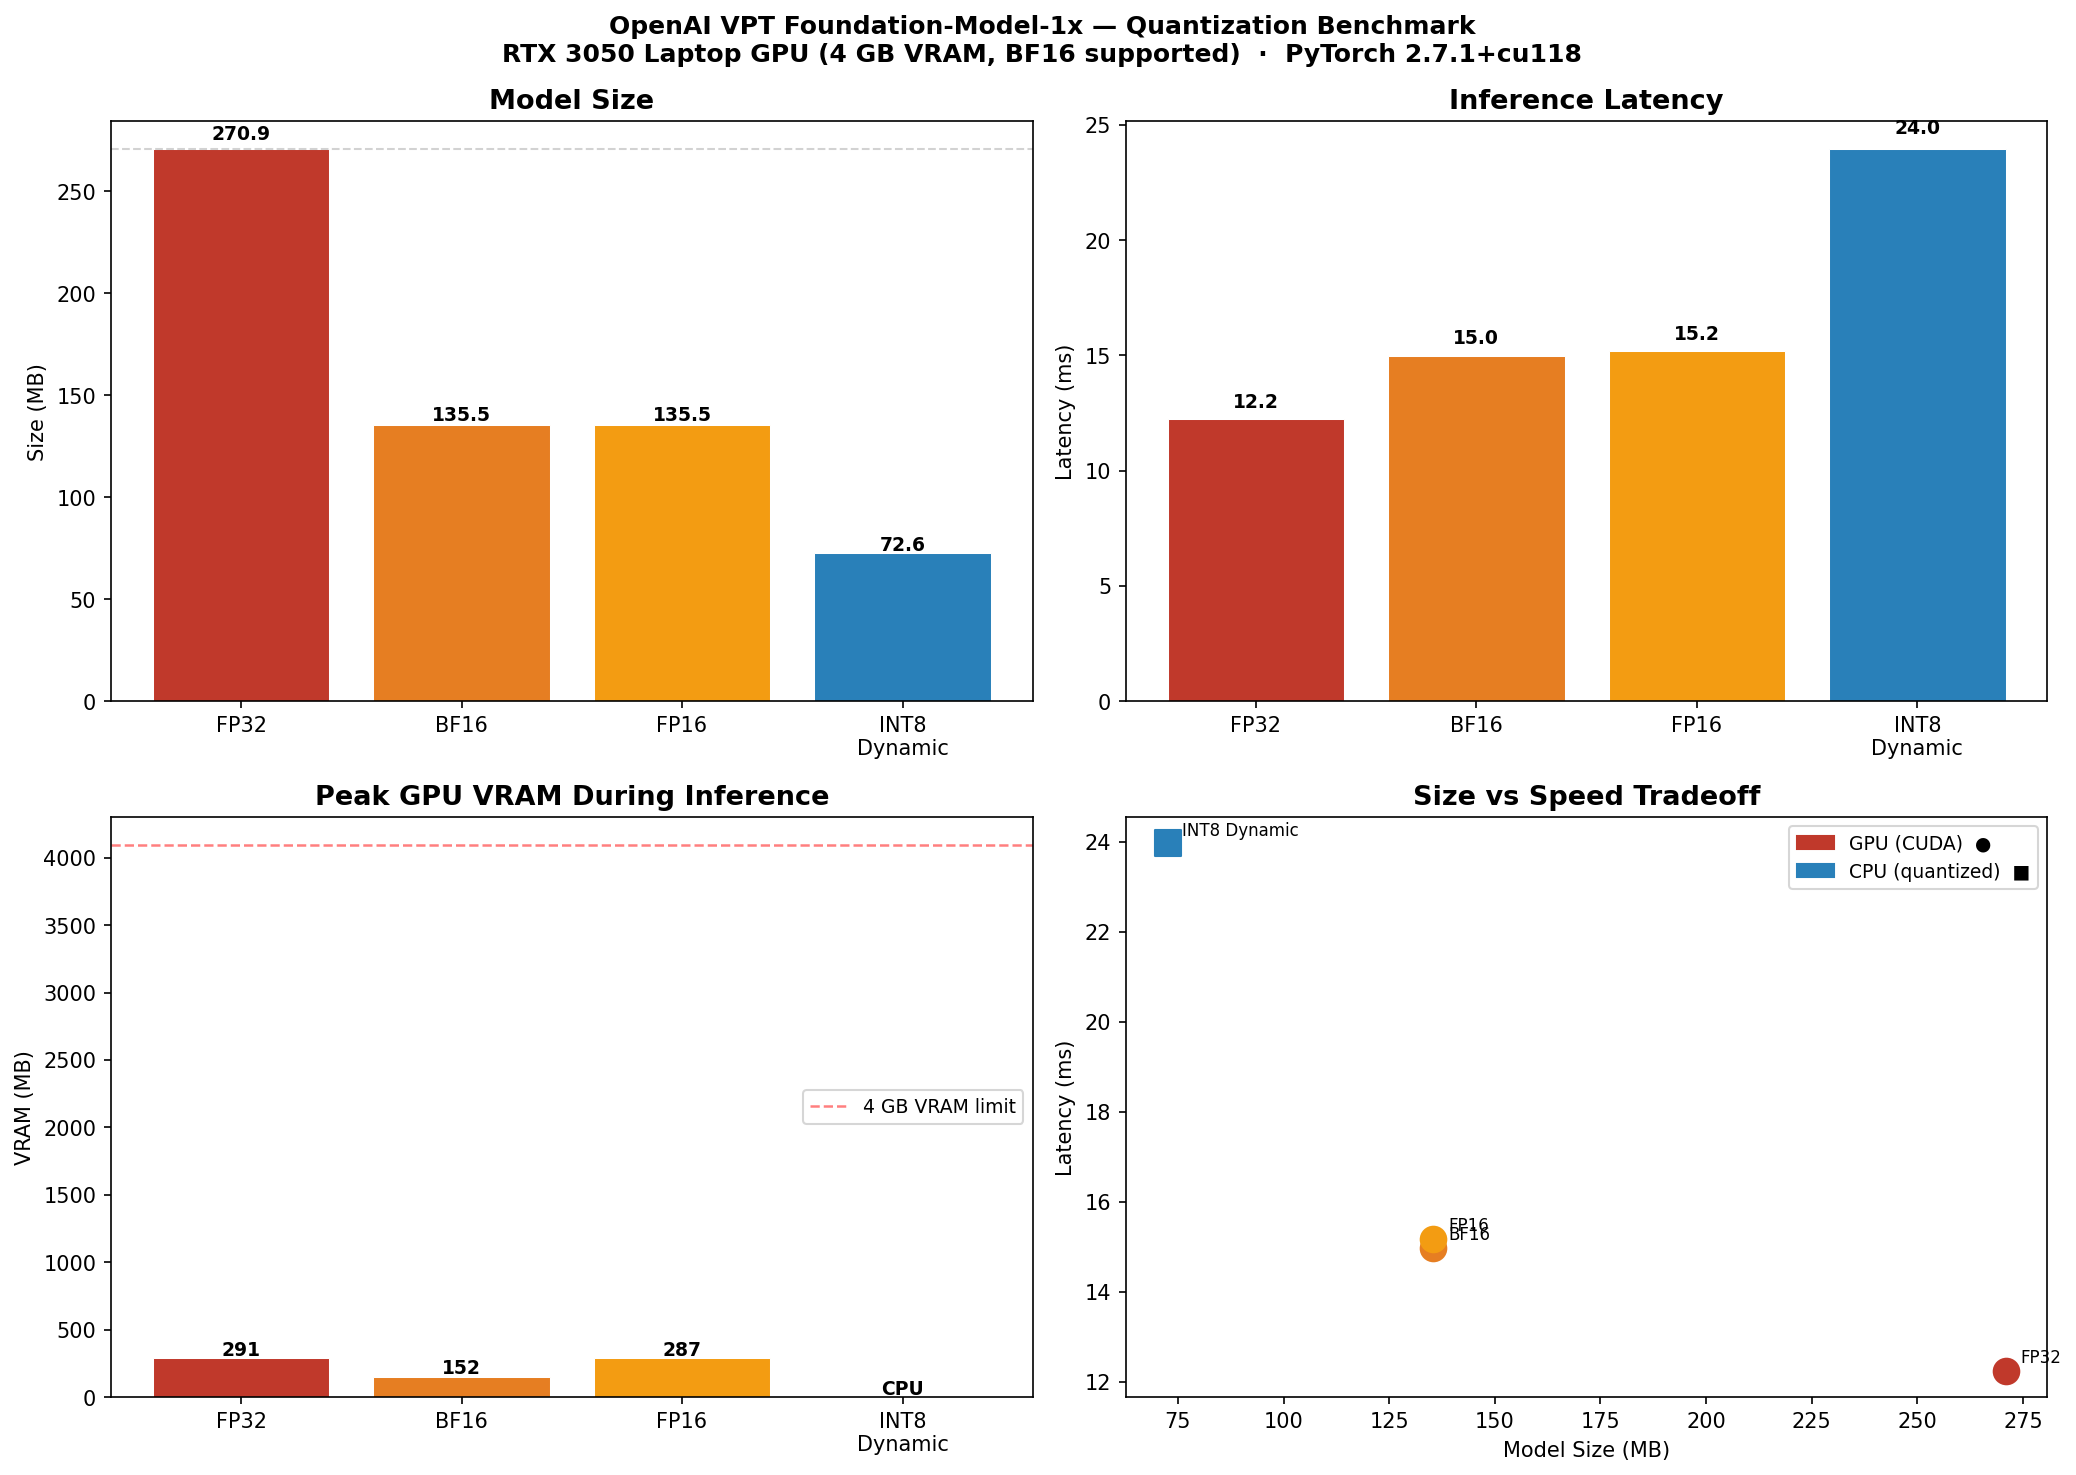
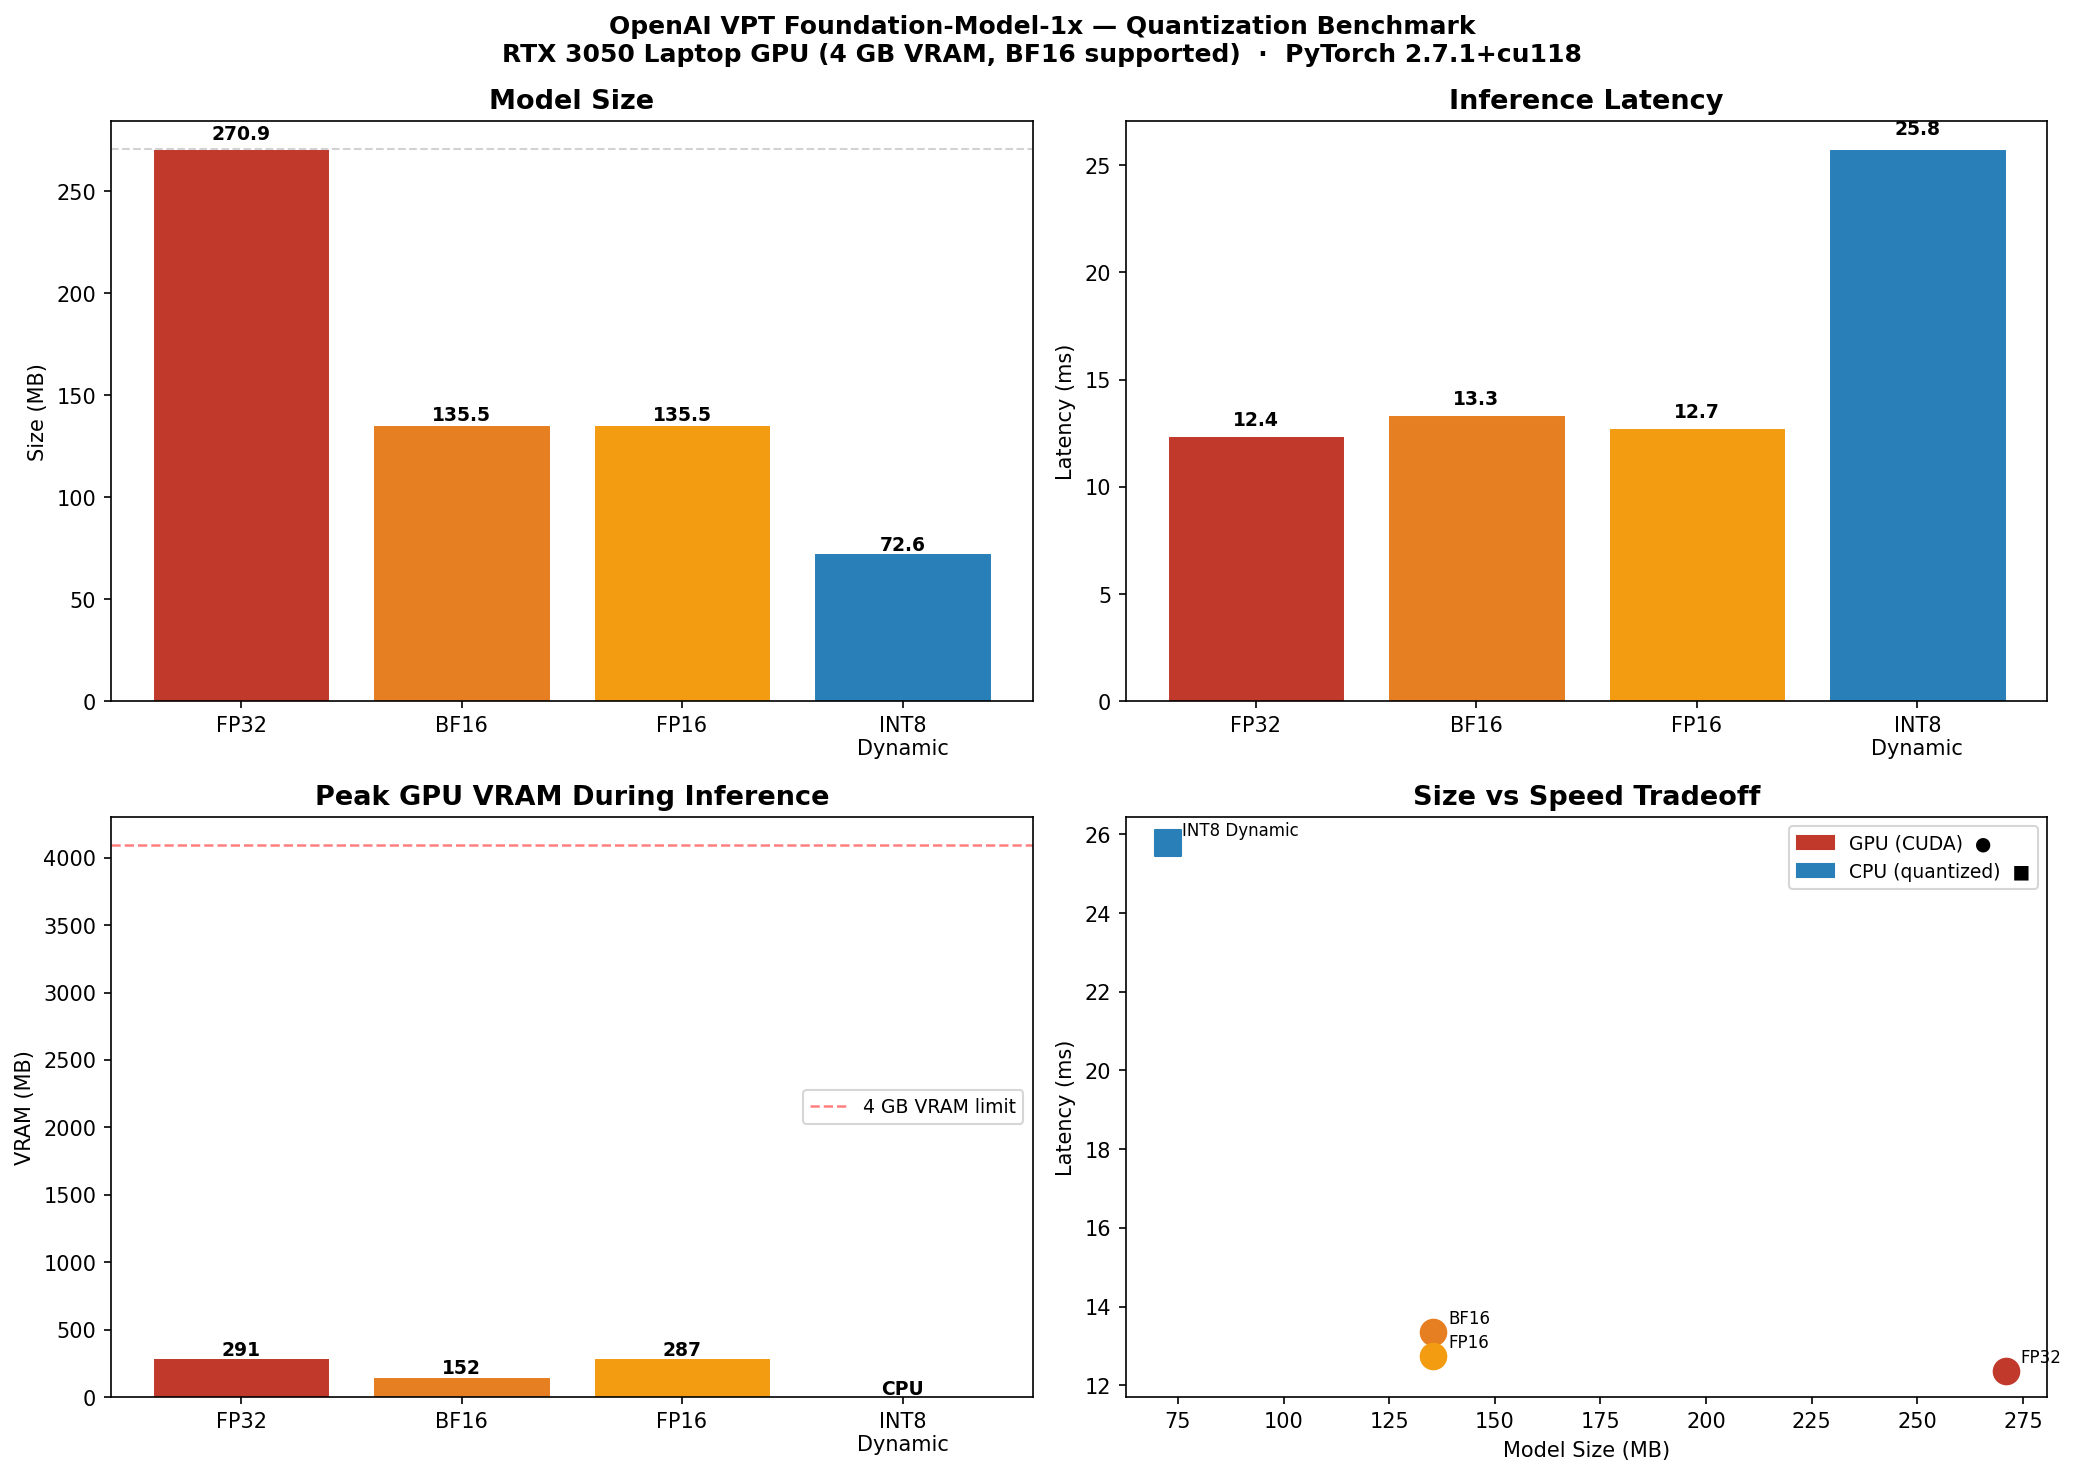
bf16 model

diff --git a/run_agent_bf16.py b/run_agent_bf16.py
@@ -1,0 +1,85 @@
+import pickle
+import time
+import torch
+from minerl.herobraine.env_specs.human_survival_specs import HumanSurvival
+from agent import MineRLAgent, ENV_KWARGS
+
+MODEL  = "foundation-model-1x.model"
+WEIGHTS = "foundation-model-1x.weights"
+
+def update_module_dtypes(model, dtype=torch.bfloat16):
+    for module in model.modules():
+        if hasattr(module, "dtype") and isinstance(module.dtype, torch.dtype):
+            module.dtype = dtype
+
+
+def cast_state(state, dtype=torch.bfloat16):
+    if isinstance(state, torch.Tensor):
+        return state.to(dtype)
+    elif isinstance(state, (list, tuple)):
+        return type(state)(cast_state(s, dtype) for s in state)
+    elif isinstance(state, dict):
+        return {k: cast_state(v, dtype) for k, v in state.items()}
+    return state
+
+
+def main():
+    print("---Loading model (BF16)---")
+    agent_parameters = pickle.load(open(MODEL, "rb"))
+    policy_kwargs = agent_parameters["model"]["args"]["net"]["args"]
+    pi_head_kwargs = agent_parameters["model"]["args"]["pi_head_opts"]
+    pi_head_kwargs["temperature"] = float(pi_head_kwargs["temperature"])
+
+    print("---Launching MineRL environment (be patient)---")
+    env = HumanSurvival(**ENV_KWARGS).make()
+    agent = MineRLAgent(env, policy_kwargs=policy_kwargs, pi_head_kwargs=pi_head_kwargs)
+    agent.load_weights(WEIGHTS)
+
+    print("---Converting to BF16---")
+    agent.policy = agent.policy.to(torch.bfloat16)
+    update_module_dtypes(agent.policy)
+    agent.hidden_state = cast_state(agent.hidden_state)
+    size_mb = sum(p.nelement() * p.element_size()
+                  for p in agent.policy.parameters()) / 1024 / 1024
+    print(f"  Model size : {size_mb:.1f} MB")
+    print(f"  VRAM used  : {torch.cuda.memory_allocated() / 1024**2:.0f} MB")
+
+    episode = 0
+    while True:
+        episode += 1
+        print(f"--- Episode {episode} (BF16) ---")
+        try:
+            obs = env.reset()
+            done = False
+            steps = 0
+            while not done:
+                with torch.autocast(device_type="cuda", dtype=torch.bfloat16):
+                    minerl_action = agent.get_action(obs)
+                obs, reward, done, info = env.step(minerl_action)
+                env.render()
+                steps += 1
+                if steps % 100 == 0:
+                    vram = torch.cuda.memory_allocated() / 1024**2
+                    print(f"  Step {steps} | reward: {reward:.3f} | VRAM: {vram:.0f} MB")
+                if "error" in info:
+                    print("  Environment error, resetting...")
+                    break
+            print(f"  Episode ended after {steps} steps")
+            agent.reset()
+            agent.hidden_state = cast_state(agent.hidden_state)
+
+        except Exception as e:
+            print(f"  Error: {e}")
+            time.sleep(3)
+            try:
+                obs = env.reset()
+            except Exception:
+                env.close()
+                time.sleep(5)
+                env = HumanSurvival(**ENV_KWARGS).make()
+                agent = MineRLAgent(env, policy_kwargs=policy_kwargs,
+                                    pi_head_kwargs=pi_head_kwargs)
+                agent.load_weights(WEIGHTS)
+
+if __name__ == "__main__":
+    main()